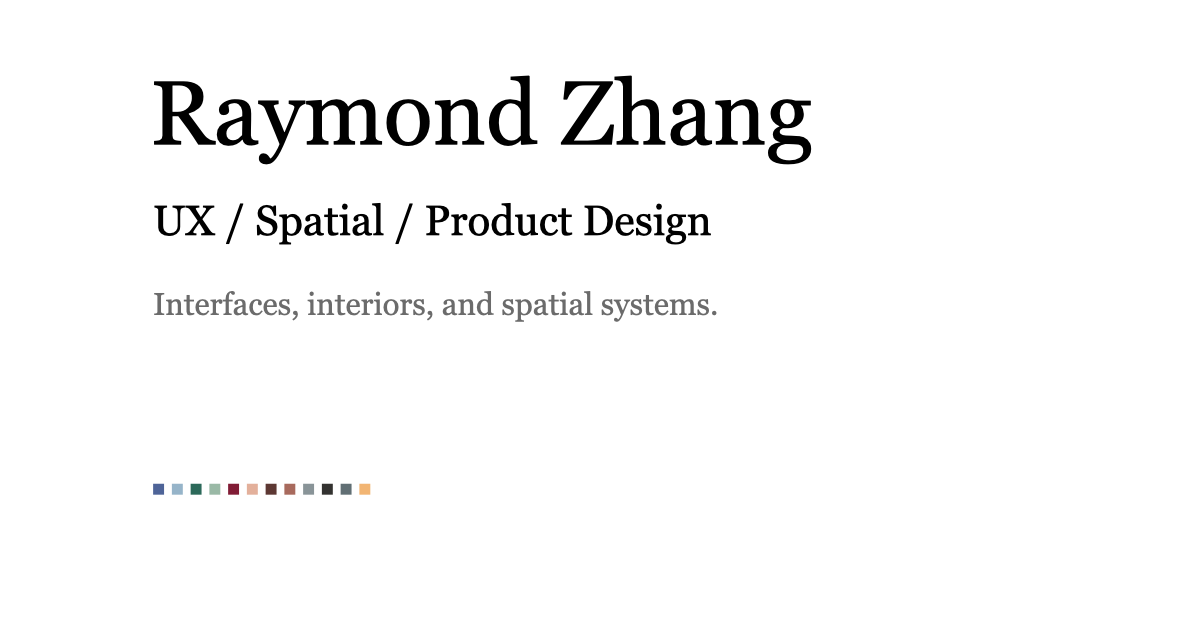
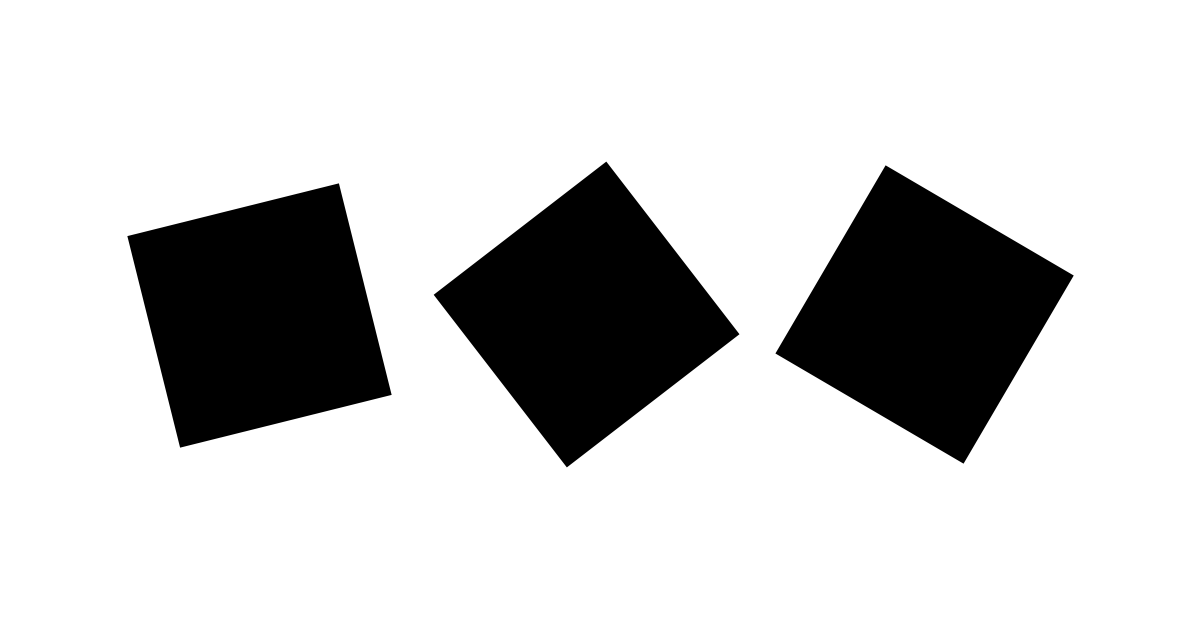
Add vector OG artwork and publish portfolio updates

Changed region(s): [[0.0925, 0.1206, 0.6783, 0.754], [0.6475, 0.2714, 0.8942, 0.7238], [0.1233, 0.754, 0.3083, 0.7841]]

diff --git a/index.html b/index.html
@@ -429,9 +429,9 @@
 		const featuredProjects = {
 			linklog: {
 				title: "LinkLog",
-				discipline: "Service Design / UX Prototype / Local Web App",
+				discipline: "Service Design / UX Prototype / Dashboard Design",
 				year: "2026",
-				summary: "LinkLog is a browser-based service dashboard prototype designed for OACAO’s Links2Wellbeing program. It helps staff manage local client records, track follow-ups, document interactions, and prepare de-identified seasonal reports without relying on a backend or complex technical setup. The final package included a working prototype, storyboard, user testing materials, future-state service blueprint, implementation toolkit, Miro process work, and technical documentation.",
+				summary: "LinkLog is a browser based service dashboard prototype designed for OACAO’s Links2Wellbeing program. It helps staff manage local client records, track follow-ups, document interactions, and prepare de-identified seasonal reports without relying on a backend or complex technical setup. The final package included a working prototype, storyboard, user testing materials, future-state service blueprint, implementation toolkit, Miro process work, and technical documentation.",
 				marker: "linear-gradient(135deg, #4e6498 0%, #96b4c9 55%, #b3c8cd 100%)",
 				meta: [
 					["Role", "UX Researcher / Service Designer / Prototype Developer"],
